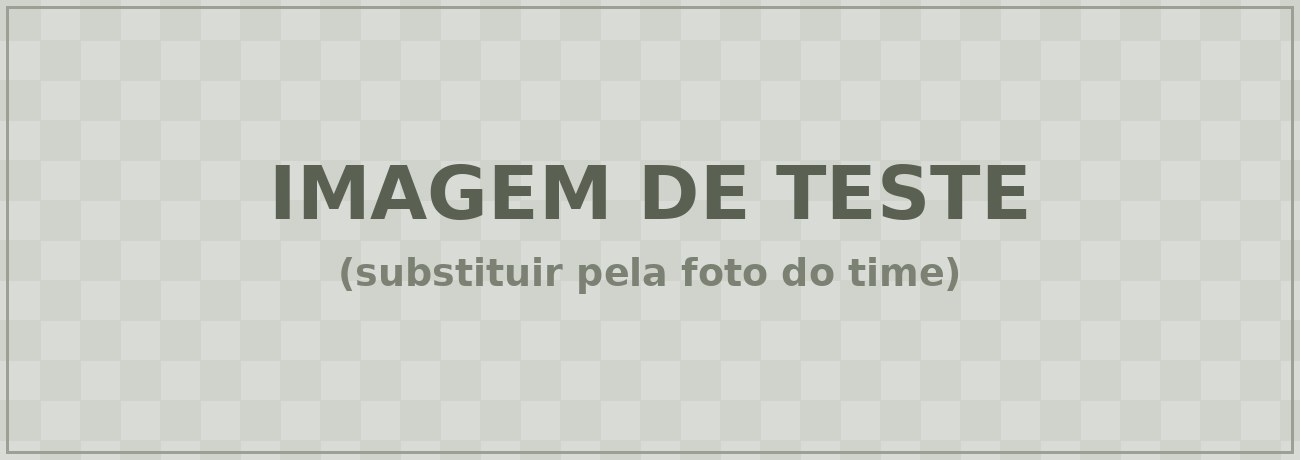
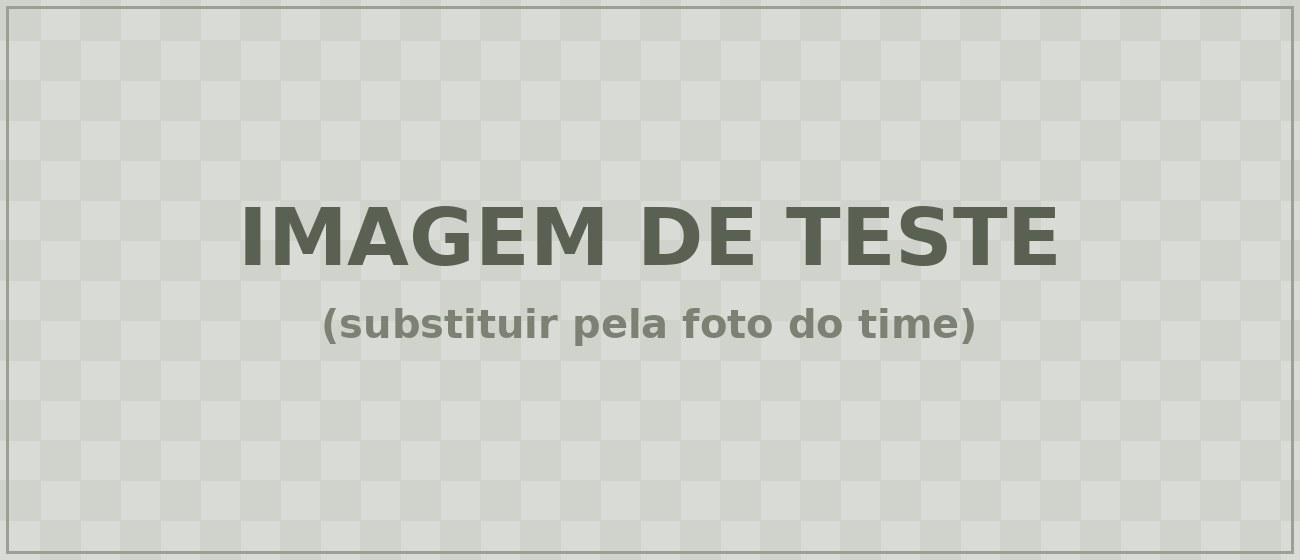
Cover fills page + taller photo; agenda title integrated + footer watermark
Page 1 (capa):
- Make the cover a flex column so the birthday block grows to fill the page
- Taller cover photo (height 560px, object-fit cover); regenerate test image
- Distribute birthday rows (grid align-content space-between)
- Keep title full-width via align-self flex-start (fit script)

Page 2 (agenda):
- "AGENDA" baseline meets the white calendar (tighter line-height, no bottom pad)
- Add a large semi-transparent logo watermark behind the footer dates

Claude-Session: https://claude.ai/code/session_01DeNUfRBWYpbkyEs9acw9DY

diff --git a/tatanews.html b/tatanews.html
@@ -34,7 +34,7 @@
   /* =========================================================
      PÁGINA 1 — CAPA
      ========================================================= */
-  .capa{padding:0 60px 60px;font-family:'Georgia',serif;}
+  .capa{padding:0 60px 60px;font-family:'Georgia',serif;display:flex;flex-direction:column;}
   .capa .barra-topo{height:34px;background:var(--verde);margin:0 -60px 40px;}
   .capa .cabecalho{display:flex;align-items:flex-start;justify-content:space-between;}
   .capa .logo{display:flex;align-items:center;gap:6px;}
@@ -53,19 +53,20 @@
 
   /* font-size é apenas fallback: o script ajusta o título para preencher toda a largura (de ponta a ponta, igual à foto) */
   .capa .titulo-jornal{font-family:var(--fonte-marca);font-size:205px;font-weight:normal;
-    letter-spacing:-0.01em;line-height:1;margin:6px 0 4px;text-align:left;white-space:nowrap;}
+    letter-spacing:-0.01em;line-height:1;margin:6px 0 4px;text-align:left;white-space:nowrap;align-self:flex-start;}
   .capa .titulo-jornal .tata{color:var(--verde);}
   .capa .titulo-jornal .news{color:var(--preto);}
   .capa .linha-verde{height:5px;background:var(--verde);margin-bottom:26px;}
 
   .capa .foto-principal{position:relative;width:100%;}
-  .capa .foto-principal img{width:100%;display:block;}
+  .capa .foto-principal img{width:100%;height:560px;object-fit:cover;display:block;}
   .capa .foto-legenda{position:absolute;left:0;right:0;bottom:0;background:rgba(76,175,82,.85);
     color:#fff;text-align:center;font-family:Arial,sans-serif;font-size:26px;padding:12px;}
 
-  .capa .bloco-aniv{background:var(--verde);margin-top:40px;padding:36px 50px 50px;color:#fff;}
+  .capa .bloco-aniv{background:var(--verde);margin-top:40px;padding:36px 50px 50px;color:#fff;
+    flex:1;display:flex;flex-direction:column;}
   .capa .bloco-aniv h2{text-align:center;font-size:36px;color:#111;font-family:Arial,sans-serif;font-weight:bold;margin-bottom:34px;}
-  .capa .grid-aniv{display:grid;grid-template-columns:1fr 1fr;gap:22px 60px;}
+  .capa .grid-aniv{display:grid;grid-template-columns:1fr 1fr;gap:22px 60px;flex:1;align-content:space-between;}
   .capa .item-aniv{display:flex;align-items:baseline;gap:18px;}
   .capa .item-aniv .dia{font-size:44px;font-weight:bold;font-family:var(--fonte-play);min-width:64px;}
   .capa .item-aniv .nome{font-size:34px;font-weight:bold;line-height:1.1;font-family:var(--fonte-play);}
@@ -74,15 +75,21 @@
   /* =========================================================
      PÁGINA 2 — AGENDA
      ========================================================= */
-  .agenda .faixa-titulo{background:var(--verde);padding:20px 60px 30px;}
-  .agenda .faixa-titulo h1{color:#fff;font-family:var(--fonte-marca);font-size:150px;font-weight:normal;letter-spacing:2px;line-height:1;}
+  /* "AGENDA" encosta a base das letras no limite com a parte branca (integra com o calendário) */
+  .agenda .faixa-titulo{background:var(--verde);padding:26px 60px 0;overflow:hidden;}
+  .agenda .faixa-titulo h1{color:#fff;font-family:var(--fonte-marca);font-size:150px;font-weight:normal;letter-spacing:2px;line-height:0.78;}
   .agenda .cal{padding:50px 60px 20px;}
   .agenda table{width:100%;border-collapse:collapse;text-align:center;color:var(--texto);font-family:var(--fonte-play);}
   .agenda th{font-size:52px;font-weight:normal;padding-bottom:30px;}
   .agenda td{font-size:52px;padding:26px 0;}
   .agenda .destaque{display:inline-flex;align-items:center;justify-content:center;
     width:88px;height:88px;background:var(--verde);color:#111;border-radius:50%;}
-  .agenda .rodape{background:var(--verde);color:#fff;margin-top:60px;padding:70px 70px 90px;min-height:800px;}
+  .agenda .rodape{background:var(--verde);color:#fff;margin-top:60px;padding:70px 70px 90px;min-height:800px;
+    position:relative;overflow:hidden;}
+  /* marca d'água: logo grande, semi-transparente, atrás do texto do rodapé */
+  .agenda .rodape .marca-dagua{position:absolute;right:-70px;bottom:-40px;width:640px;height:auto;
+    opacity:.12;z-index:0;pointer-events:none;}
+  .agenda .rodape > *:not(.marca-dagua){position:relative;z-index:1;}
   .agenda .rodape h3{font-family:'Georgia',serif;font-size:46px;margin-bottom:20px;}
   .agenda .rodape ul{list-style:none;font-size:32px;line-height:1.7;}
   .agenda .divisoria{width:560px;height:3px;background:#fff;margin:50px 0;}
@@ -134,7 +141,7 @@
 
   <div class="foto-principal">
     <!-- EDITAR FOTO: troque o src abaixo -->
-    <img src="img/grupo_capa.jpg?v=1" alt="Foto do time">
+    <img src="img/grupo_capa.jpg?v=2" alt="Foto do time">
     <!-- EDITAR: legenda da foto -->
     <div class="foto-legenda">Comemoração aniversariantes de maio</div>
   </div>
@@ -177,6 +184,8 @@
   </div>
 
   <div class="rodape">
+    <!-- marca d'água (logo grande e semi-transparente ao fundo) -->
+    <img class="marca-dagua" src="img/logo-tata-branco.png?v=2" alt="" aria-hidden="true">
     <!-- EDITAR: pagamentos e comemorações -->
     <h3>Pagamentos e comemorações:</h3>
     <ul>
